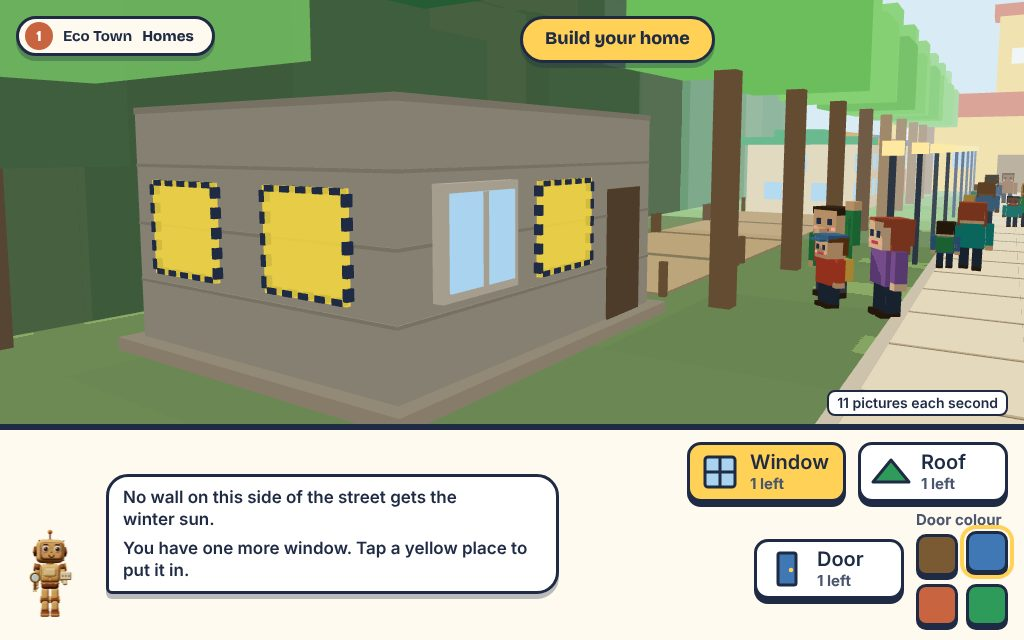
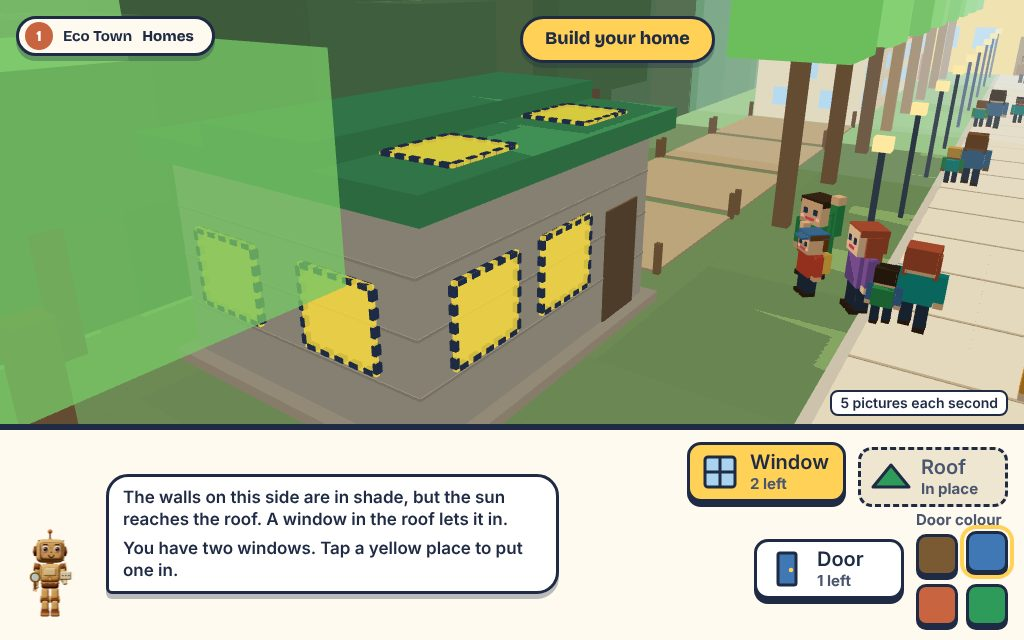
Trial level: recap by tapping the town, try another plan, a clear test view, and roof windows on the shady side
Claude-Session: https://claude.ai/code/session_01Ecde5Lvgabpd1qnHSP6bP6

diff --git a/docs/redesign/concepts/trial/trial.js b/docs/redesign/concepts/trial/trial.js
@@ -20,11 +20,14 @@ const T = { level: 'A warm home for winter',
   plans: [['Timber home', 'Wood from the town forest, cut in a sawmill that runs on sunshine.'], ['Brick home', 'Clay bricks, baked hard in a hot oven.'], ['Concrete home', 'Cement, made in a very hot kiln.']],
   checks: ['Staying warm', 'Clean air'], warm: { g: 'It stays warm all night.', f: 'It gets a little cold by morning.', p: 'It is cold inside all night.' }, tag: { g: 'Warm', f: 'A little cold', p: 'Cold' },
   air: ['Making the wood adds no pollution.', 'Baking the bricks adds some pollution.', 'Making the cement adds a lot of pollution.'],
-  build: 'Build your home', win2: 'You have two windows. Tap a yellow place to put one in.', win1: 'You have one more window. Tap a yellow place to put it in.', roof: 'Now tap the yellow place to lower the roof.', door: 'Choose a colour for the door. Then tap the yellow place.',
+  build: 'Build your home', win2: 'You have two windows. Tap a yellow place to put one in.', win1: 'You have one more window. Tap a yellow place to put it in.', roof: 'Tap the yellow place to lower the roof.', shadyWin: 'The walls on this side are in shade, but the sun reaches the roof. A window in the roof lets it in.', door: 'Choose a colour for the door. Then tap the yellow place.',
   sunIn: 'The winter sun shines in through this window and warms the home.', noSun: 'This wall is in shade, so no sun comes in here. You can tap the window to take it out again.', shade: 'No wall on this side of the street gets the winter sun.',
   ready: ['The home is ready, and your family is moving in.', 'One window catches the sun. The home is ready, and your family is moving in.', 'Both windows catch the sun. The home is ready, and your family is moving in.'],
   window: 'Window', roofT: 'Roof', doorT: 'Door', left: (n) => `${n} left`, placed: 'In place', colour: 'Door colour', family: 'Your family', plot: 'Your plot', yours: 'Your home', next: 'Next',
-  town: 'The street is built', after: ['The whole street is built your way. Making the wood added no pollution, and the air is clean.', 'The whole street is built your way. Baking the bricks added some pollution.', 'The whole street is built your way. Making the cement added a lot of pollution.'],
+  town: 'The street is built', homes: ['Timber homes', 'Brick homes', 'Concrete homes'], afterAir: ['Making the wood added no pollution, and the air is clean.', 'Baking the bricks added some pollution.', 'Making the cement added a lot of pollution.'],
+  afterWarm: { g: 'The homes stay warm at night.', f: 'The homes get a little cold by morning.', p: 'The homes are cold at night.' }, built: 'The whole street is built your way.',
+  tryOther: 'Try another plan', chooseOther: 'Choose a different plan to see it in the town.', first: 'Your first plan', what: 'What changed?', keepFirst: 'Go back to my first plan', keepThis: 'Keep this plan',
+  recapT: 'One more question', recapQ: 'Which side of the street does the winter sun warm? Tap that side.', thisSide: 'This side', sunSide: 'The sunny side', recapYes: 'Yes. The low winter sun reaches this side, so homes here stay warmer.', recapNo: 'The winter sun shines on this side. The wood keeps the other side in shade.',
   end: 'This is the end of the trial level. Thank you for playing.', replay: 'Play again' };
 
 // ---- colours and blocks ---------------------------------------------------------------------------------------------------
@@ -64,9 +67,9 @@ let cur = null, tws = [], run = 0;
 function newScene(half, o = {}) { const scene = new THREE.Scene(), hemi = new THREE.HemisphereLight('#fff6e8', '#cfc6b0', 1.5), sun = new THREE.DirectionalLight('#ffe9c4', 1.7);
   scene.add(hemi); sun.position.set(...(o.sun || [-16, 30, 18])); sun.castShadow = true; sun.shadow.mapSize.set(2048, 2048); Object.assign(sun.shadow.camera, { left: -half, right: half, top: half * 0.75, bottom: -half * 0.75, near: 1, far: 160 }); sun.shadow.bias = -0.002; sun.shadow.normalBias = 0.09; scene.add(sun);
   scene.background = new THREE.Color(SKY); return { scene, hemi, sun, g: group(scene), picks: [], plates: [], minAspect: 1.9 }; }
-function fit() { if (!cur) return; const f = cur.fov * Math.PI / 180; cam.fov = cam.aspect >= cur.minAspect ? cur.fov : 2 * Math.atan(Math.tan(f / 2) * cur.minAspect / cam.aspect) * 180 / Math.PI; cam.position.set(...cur.eye); cam.lookAt(...cur.at); cam.updateProjectionMatrix(); cam.updateMatrixWorld(); }
+function fit() { if (!cur) return; const f = cur.fov * Math.PI / 180; cam.fov = cam.aspect >= cur.minAspect ? cur.fov : 2 * Math.atan(Math.tan(f / 2) * cur.minAspect / cam.aspect) * 180 / Math.PI; cam.position.set(...cur.eye); cam.lookAt(cur.at[0], cur.at[1] - (view.clientHeight < 560 ? cur.drop || 0 : 0), cur.at[2]); cam.updateProjectionMatrix(); cam.updateMatrixWorld(); }
 // the camera glides from one view of the same place to another
-const glide = (to, sec = 1.6) => { const a = { eye: [...cur.eye], at: [...cur.at], fov: cur.fov }, mix = (p, q, k) => p.map((v, i) => v + (q[i] - v) * k); return tw(sec, (k) => { const e = ease(k); cur.eye = mix(a.eye, to.eye, e); cur.at = mix(a.at, to.at, e); cur.fov = a.fov + (to.fov - a.fov) * e; fit(); }); };
+const glide = (to, sec = 1.6) => { const a = { eye: [...cur.eye], at: [...cur.at], fov: cur.fov, drop: cur.drop || 0 }, mix = (p, q, k) => p.map((v, i) => v + (q[i] - v) * k); return tw(sec, (k) => { const e = ease(k); cur.eye = mix(a.eye, to.eye, e); cur.at = mix(a.at, to.at, e); cur.fov = a.fov + (to.fov - a.fov) * e; cur.drop = a.drop + ((to.drop || 0) - a.drop) * e; fit(); }); };
 function resize() { const w = view.clientWidth, h = view.clientHeight; if (!w || !h) return; renderer.setPixelRatio(Math.min(devicePixelRatio || 1, 1.5)); renderer.setSize(w, h, false); cam.aspect = w / h; fit(); }
 new ResizeObserver(resize).observe(view);
 function setScene(s) { run++; tws = []; cur = s; hover = null; view.classList.remove('can'); $('plates').innerHTML = ''; for (const p of s.plates) $('plates').append(p.el); fit(); return s; }
@@ -93,7 +96,7 @@ function loop(now) { requestAnimationFrame(loop); const dt = Math.min(0.1, (now 
 
 // ---- the place: one street, used for the whole level -----------------------------------------------------------------------
 // Side 0 is the sunny side (on the right of the picture) and side 1 the shady side (on the left, under the wood).
-const SIDEZ = [-12.7, 12.7], PX = [1, -10, -18, -26, -34], VIEW = { street: { eye: [19, 5, 4.6], at: [-10, 3, 0], fov: 33 }, plans: [{ eye: [3, 4.4, 5.6], at: [-17, 1.4, -12], fov: 40 }, { eye: [3, 4.4, -5.6], at: [-17, 1.4, 12], fov: 40 }], build: [{ eye: [14.5, 4.6, -0.5], at: [0.5, 3.1, -10.2], fov: 33 }, { eye: [14.5, 4.6, 0.5], at: [0.5, 3.1, 10.2], fov: 33 }] };
+const SIDEZ = [-12.7, 12.7], PX = [1, -10, -18, -26, -34], VIEW = { street: { eye: [19, 5, 4.6], at: [-10, 3, 0], fov: 33 }, plans: [{ eye: [-13, 6.6, 14.5], at: [-18.5, 2.3, -12.7], fov: 48, drop: 1.7 }, { eye: [-23, 6.6, -14.5], at: [-17.5, 2.3, 12.7], fov: 48, drop: 1.7 }], build: [{ eye: [14.5, 4.6, -0.5], at: [0.5, 3.1, -10.2], fov: 33 }, { eye: [15, 9.6, 0], at: [0.5, 3.8, 10.4], fov: 33 }] };
 const HW = 10, HD = 8, HH = 5.2, FRONT = [-3, 0.2], GABLE = [-1.9, 1.9], DOORX = 3.4;
 function town() { const s = newScene(46, { sun: [-10, 36, 48] }), g = s.g; Object.assign(s, VIEW.street, { eye: [...VIEW.street.eye], at: [...VIEW.street.at], minAspect: 1.9 });
   const sunDir = new THREE.Vector3(-10, 36, 48).normalize();
@@ -103,7 +106,9 @@ function town() { const s = newScene(46, { sun: [-10, 36, 48] }), g = s.g; Objec
   for (let k = 0; k < 13; k++) { const x = 16 - k * 7, hh = 11 + hash(k, 3) * 4; B(g, x, 23.5, 7.2, 6, 0, hh, ['#4f8a5a', '#58935f', '#4a8456'][k % 3]); B(g, x + 0.6, 22.6, 4.4, 4.4, hh, 2.2, '#58935f'); }
   for (const x of [8, -6, -20]) { B(g, x, 19.6, 0.6, 0.6, 0, 5, '#6f5a44'); B(g, x, 19.6, 4.4, 4.4, 4.2, 4.6, '#4f8a5a'); }
   // trees and lamps along the path lead the eye to the school
-  for (let k = 0; k < 9; k++) { const x = -6 - k * 8; for (const z of [-7.2, 7.2]) { tree(g, x, z, 1.55); lamp(g, x - 4, z > 0 ? 3.4 : -3.4); } }
+  const avenue = []; for (let k = 0; k < 9; k++) { const x = -6 - k * 8; for (const z of [-7.2, 7.2]) { const tg = group(g), lg = group(g), sd = z > 0 ? 1 : 0; tree(tg, x, z, 1.55); lamp(lg, x - 4, sd ? 3.4 : -3.4); avenue.push({ o: tg, x, sd, tree: true }, { o: lg, x: x - 4, sd }); } }
+  // for the test, the trees in front of the three sample homes and the lamps beside them step aside, so that the windows and the air can be seen
+  const clearView = (on) => { for (const a of avenue) a.o.visible = !(on && a.x > -42 && a.x < 8); };
   // the far end of the street is already built, and the school closes the view
   [-42, -50, -58, -66].forEach((x, k) => SIDEZ.forEach((z, sd) => { const h = house(g, { wx: x, k: k + sd * 2 }); h.position.set(x, 0, z); h.rotation.y = sd ? Math.PI : 0; }));
   { const x = -80, V = { raw: true, unlit: true }; B(g, x, 0, 6, 24, 0, 8, '#ffd76a', V); B(g, x, 0, 6.6, 25, 8, 1.3, '#d2553a', V); B(g, x, 0, 6.6, 13, 9.3, 1.2, '#d2553a', V); B(g, x, 0, 4, 4, 10.5, 8, '#ffd76a', V); B(g, x, 0, 5, 5, 18.5, 1.2, '#d2553a', V); B(g, x + 2.1, 0, 0.1, 1.6, 13.5, 1.6, '#fbfbf7', V);
@@ -139,17 +144,17 @@ function town() { const s = newScene(46, { sun: [-10, 36, 48] }), g = s.g; Objec
   const level = (i) => { const n = [3, 2, 1][i] + (s.side === 0 ? 1 : 0) + (s.thick ? 1 : 0); return n >= 4 ? 'g' : n === 3 ? (i === 0 ? 'g' : 'f') : n === 2 ? (i === 0 ? 'g' : 'f') : 'p'; };
   s.level = level; s.airLevel = (i) => 'gfp'[i];
   const pop = (o, from = 0.01, to = 1, sec = 0.36) => tw(sec, (k) => o.scale.setScalar(Math.max(0.01, from + (to - from) * (to > from ? back(k) : ease(k)))));
-  s.clearPlans = () => { for (const q of samples) { g.remove(q.h); for (const c of q.cloud) g.remove(c.m); q.plate.hide = true; q.plate.el.remove(); s.plates.splice(s.plates.indexOf(q.plate), 1); } samples = []; };
-  s.showPlans = async () => { s.clearPlans(); const z = SIDEZ[s.side], me = run; plots[s.side].forEach((p, k) => { p.mark.visible = false; });
+  s.clearPlans = () => { clearView(false); for (const q of samples) { g.remove(q.h); for (const c of q.cloud) g.remove(c.m); q.plate.hide = true; q.plate.el.remove(); s.plates.splice(s.plates.indexOf(q.plate), 1); } samples = []; };
+  s.showPlans = async () => { s.clearPlans(); clearView(true); const z = SIDEZ[s.side], me = run; plots[s.side].forEach((p, k) => { p.mark.visible = false; });
     for (let i = 0; i < 3; i++) { const x = PX[s.side ? i + 1 : 3 - i], glass = glassMat(), h = house(g, { wx: x, mat: MAT[i], glass, thick: s.thick, roofC: ROOF[[2, 0, 1][i]] }); h.position.set(x, 0.1, z); h.rotation.y = s.side ? Math.PI : 0; h.scale.setScalar(0.01);
       const cloud = []; for (let k = 0; k < [0, 4, 12][i]; k++) { const sz = (i === 1 ? 1.6 : 2.2) + hash(k, i) * 1.4, m = blk(g, 0, 0, sz, sz, 0, sz * 0.8, '#6d6763', { shadow: false, mat: soft(['#6f6a62', '#7d776d', '#5f5b55'][k % 3], 0.78) }); m.visible = false;
-        cloud.push({ m, sz, from: [x, 5.4, z], to: [x + (hash(k, 5) - 0.5) * (i === 1 ? 4 : 8), 7.2 + hash(k, 9) * (i === 1 ? 2.4 : 5) + k * 0.12, z + (hash(k, 3) - 0.5) * 5], at: k * (i === 1 ? 0.5 : 0.2) }); }
+        cloud.push({ m, sz, from: [x, 5.4, z], to: [x + (hash(k, 5) - 0.5) * (i === 1 ? 4 : 8), 6.9 + hash(k, 9) * (i === 1 ? 1.6 : 3.2) + k * 0.05, z + (hash(k, 3) - 0.5) * 5], at: k * (i === 1 ? 0.5 : 0.2) }); }
       samples.push({ h, glass, cloud, plate: plate(s, T.plans[i][0], [x, 6.4, z + (s.side ? -3.6 : 3.6)]) }); }
     glide(VIEW.plans[s.side], 1.6); for (const q of samples) { beep(360, 0.07); await pop(q.h); if (me !== run) return; } };
   let cloudT = -1; const setClouds = (tt) => { for (const q of samples) for (const p of q.cloud) { const k = ease(Math.max(0, Math.min(1, (tt - p.at) / 2))); p.m.visible = k > 0; p.m.position.set(p.from[0] + (p.to[0] - p.from[0]) * k, p.from[1] + (p.to[1] - p.from[1]) * k, p.from[2] + (p.to[2] - p.from[2]) * k); p.m.scale.set(p.sz * (0.3 + 0.7 * k), p.sz * 0.8 * (0.3 + 0.7 * k), p.sz * (0.3 + 0.7 * k)); } };
   // the test: the materials are made and the pollution rises; then the cold night comes and the windows show the warmth
   s.run = async () => { const me = run; cloudT = 0; await wait(4.2); if (me !== run) return false; await tw(2, (k) => s.setNight(ease(k))); if (me !== run) return false;
-    samples.forEach((q, i) => { const lv = level(i); q.glass.color.set(WARM[lv]); q.plate.el.textContent = `${T.plans[i][0]}: ${T.tag[lv]}`; q.plate.el.classList.toggle('on', lv === 'g'); }); beep(300, 0.3, 'sine'); await wait(1.6); return me === run; };
+    samples.forEach((q, i) => { const lv = level(i); q.glass.color.set(WARM[lv]); }); beep(300, 0.3, 'sine'); await wait(1.6); return me === run; };
 
   // ---- the family's home, built by the child ----
   let H = null;
@@ -157,62 +162,74 @@ function town() { const s = newScene(46, { sun: [-10, 36, 48] }), g = s.g; Objec
     await Promise.all([tw(1.2, (k) => s.setNight(1 - ease(k))), ...samples.map((q) => pop(q.h, 1, 0.01, 0.5)), tw(1, (k) => { for (const q of samples) for (const p of q.cloud) p.m.material.opacity = 0.78 * (1 - k); })]); if (me !== run) return; s.clearPlans(); cloudT = -1;
     footing.forEach((pair) => pair.forEach((f) => { f.visible = false; })); plots[sd][0].visible = false;
     const hg = group(g, PX[0], 0, z); hg.rotation.y = sd ? Math.PI : 0; const t = s.thick ? 0.9 : 0.3;
-    B(hg, 0, 0, HW + 0.8, HD + 0.8, 0, 0.3, '#d9d2c2', { wx: 0 }); const walls = group(hg, 0, 0.3, 0); B(walls, 0, 0, HW, HD, 0, HH, m.wall, R); for (const y of [1.3, 2.6, 3.9]) { B(walls, 0, HD / 2, HW, 0.04, y, 0.07, m.line, { ...R, shadow: false }); for (const sx of [-1, 1]) B(walls, sx * HW / 2, 0, 0.04, HD, y, 0.07, m.line, { ...R, shadow: false }); }
-    B(walls, 0, 0, HW + 0.04, HD + 0.04, HH - 0.12, 0.14, s.thick ? LINING : m.line, R); B(walls, 0, 0, HW - 2 * t, HD - 2 * t, HH - 0.1, 0.14, '#5a4630', { ...R, shadow: false });      // the top of the walls shows how thick they are
+    const wallMat = new THREE.MeshLambertMaterial({ color: m.wall }), lineMat = new THREE.MeshLambertMaterial({ color: m.line });
+    B(hg, 0, 0, HW + 0.8, HD + 0.8, 0, 0.3, '#d9d2c2', { wx: 0 }); const walls = group(hg, 0, 0.3, 0); B(walls, 0, 0, HW, HD, 0, HH, m.wall, { mat: wallMat }); for (const y of [1.3, 2.6, 3.9]) { B(walls, 0, HD / 2, HW, 0.04, y, 0.07, m.line, { mat: lineMat, shadow: false }); for (const sx of [-1, 1]) B(walls, sx * HW / 2, 0, 0.04, HD, y, 0.07, m.line, { mat: lineMat, shadow: false }); }
+    B(walls, 0, 0, HW + 0.04, HD + 0.04, HH - 0.12, 0.14, LINING, s.thick ? R : { mat: lineMat }); B(walls, 0, 0, HW - 2 * t, HD - 2 * t, HH - 0.1, 0.14, '#5a4630', { ...R, shadow: false });      // the top of the walls shows how thick they are
     B(walls, DOORX, HD / 2 + 0.02, 1.8, 0.08, 0, 3.3, '#5a4630', { wx: 0, shadow: false }); walls.scale.y = 0.01;
     // the yellow places: two on the front wall and two on each end wall
     const spots = [...FRONT.map((x) => ({ wall: 'front', p: [x, 1.9, HD / 2 + 0.16], ry: 0 })), ...GABLE.map((zz) => ({ wall: 'end', p: [HW / 2 + 0.16, 1.9, zz], ry: Math.PI / 2 })), ...GABLE.map((zz) => ({ wall: 'end', p: [-HW / 2 - 0.16, 1.9, zz], ry: -Math.PI / 2 }))];
+    // on the shady side the walls get no sun, but the sun comes over the wood onto the roof: two more places, for windows in the roof
+    if (sd) for (const x of [-2.6, 2.6]) spots.push({ wall: 'roof', p: [x, 0.3 + HH + 0.62, 3.9], ry: 0, flat: true });
     const lit = glassMat(), beamMat = soft('#ffe27a', 0.34);
-    for (const q of spots) { q.frame = group(hg, ...q.p); q.frame.rotation.y = q.ry; frame(q.frame, 0, 0, 0, 2.3, 2.1, true); q.frame.visible = false;
-      q.part = group(hg, ...q.p); q.part.rotation.y = q.ry; blk(q.part, 0, 0, 2.3, 0.24, 0, 2.1, '#fbfbf7', { mat: M('#fbfbf7', 0, { raw: true }) }); q.glass = glassMat(); blk(q.part, 0, 0.06, 1.95, 0.22, 0.17, 1.76, GLASS, { shadow: false, mat: q.glass }); blk(q.part, 0, 0.1, 0.12, 0.22, 0.17, 1.76, '#fbfbf7', { shadow: false, mat: M('#fbfbf7', 0, { raw: true }) }); q.part.visible = false;
-      q.sunny = sd === 0 && q.wall === 'front';
+    for (const q of spots) { q.frame = group(hg, ...q.p); q.frame.rotation.y = q.ry; if (q.flat) q.frame.rotation.x = -Math.PI / 2; frame(q.frame, 0, 0, 0, 2.3, 2.1, true); q.frame.visible = false;
+      q.part = group(hg, ...q.p); q.part.rotation.y = q.ry; if (q.flat) q.part.rotation.x = -Math.PI / 2; blk(q.part, 0, 0, 2.3, 0.24, 0, 2.1, '#fbfbf7', { mat: M('#fbfbf7', 0, { raw: true }) }); q.glass = glassMat(); blk(q.part, 0, 0.06, 1.95, 0.22, 0.17, 1.76, GLASS, { shadow: false, mat: q.glass }); blk(q.part, 0, 0.1, 0.12, 0.22, 0.17, 1.76, '#fbfbf7', { shadow: false, mat: M('#fbfbf7', 0, { raw: true }) }); q.part.visible = false;
+      q.sunny = q.wall === 'roof' || (sd === 0 && q.wall === 'front');
       // a shaft of sunlight that comes down into a window on the sunny wall
       q.beam = new THREE.Mesh(new THREE.BoxGeometry(1.9, 1.7, 9), beamMat); q.beam.visible = false; g.add(q.beam); }
     const roof = group(hg, 0, 9.4, 0); blk(roof, 0, 0, HW + 0.9, HD + 1.2, 0, 0.6, ROOF[2], { mat: M(ROOF[2], 0) }); blk(roof, 0, 0, HW + 0.9, HD * 0.45, 0.6, 0.55, ROOF[2], { mat: M(ROOF[2], 0) }); const ropes = [-4.2, 4.2].map((x) => blk(roof, x, 0, 0.08, 0.08, 1.1, 16, '#2b3a55', { shadow: false })); roof.visible = false;
     const roofSpot = group(hg, 0, 0.3 + HH, 0); frame(roofSpot, 0, 0.1, HD / 2 + 0.2, HW, 0.9, true); for (const sx of [-1, 1]) { const f = group(roofSpot, sx * (HW / 2 + 0.2), 0.1, 0); f.rotation.y = sx * Math.PI / 2; frame(f, 0, 0, 0, HD, 0.9, true); } roofSpot.visible = false;
     const doorSpot = group(hg, DOORX, 0.3, HD / 2 + 0.2); frame(doorSpot, 0, 0, 0, 1.8, 3.3, true); doorSpot.visible = false;
     const doorMat = new THREE.MeshLambertMaterial({ color: tone(DOOR[S.doorC]) }), door = group(hg, DOORX, 0.3, HD / 2 + 0.14); blk(door, 0, 0, 1.8, 0.16, 0, 3.3, '#fff', { mat: doorMat }); blk(door, -0.6, 0.1, 0.2, 0.1, 1.5, 0.2, '#ffd257', { shadow: false, mat: M('#ffd257', 0, { raw: true, unlit: true }) }); door.visible = false;
-    H = { hg, spots, roof, door, lit, sd };
+    H = { hg, spots, roof, door, lit, sd, wallMat, lineMat };
     tw(1.3, (k) => { const e = ease(k); family.position.set(8 + (-7.5 - 8) * e, Math.abs(Math.sin(k * 14)) * 0.12 * (k < 1), 0.6 + ((sd ? 4.6 : -4.6) - 0.6) * e); family.rotation.y = (sd ? -0.5 : 0.4) * e; });
     await Promise.all([glide(VIEW.build[sd], 1.8), tw(1.4, (k) => { walls.scale.y = Math.max(0.01, ease(k)); })]); if (me !== run) return; roof.visible = true; beep(500, 0.1);
-    let tool = 'win', busy = false; const used = new Set(); let roofOn = false, doorOn = false, note = ''; s.done = false;
+    for (const q of avenue) if (q.tree && q.sd === sd && sd && q.x > -10) q.o.visible = false; const order = sd ? ['roof', 'win', 'door'] : ['win', 'roof', 'door']; let tool = order[0], busy = false; const used = new Set(); let roofOn = false, doorOn = false, note = ''; s.done = false;
     const left = () => ({ win: 2 - used.size, roof: roofOn ? 0 : 1, door: doorOn ? 0 : 1 });
     const show = () => { const n = left(); spots.forEach((q, i) => { q.frame.visible = !s.done && tool === 'win' && n.win > 0 && !used.has(i); }); roofSpot.visible = !s.done && tool === 'roof' && !roofOn; doorSpot.visible = !s.done && tool === 'door' && !doorOn; s.onChange(tool, n, s.done, note, [...used].filter((i) => spots[i].sunny).length); };
     const finish = async () => { s.done = true; show(); chime(); await wait(0.4); if (me !== run) return; for (const i of used) spots[i].glass.color.set(spots[i].sunny ? LIT : WARM[level(pick)]); const a = family.position.clone(), to = hg.localToWorld(new THREE.Vector3(DOORX - 1.2, 0, HD / 2 + 2.4));
       await tw(2, (k) => { const e = ease(k); family.position.set(a.x + (to.x - a.x) * e, Math.abs(Math.sin(k * 16)) * 0.14 * (k < 1), a.z + (to.z - a.z) * e); }); if (me === run) s.onDone(); };
-    const next = () => { const n = left(); if (!n[tool]) tool = ['win', 'roof', 'door'].find((k) => n[k]) || tool; if (!n.win && !n.roof && !n.door) finish(); else show(); };
-    s.setTool = (k) => { if (s.done || !left()[k]) return; tool = k; note = ''; show(); };
+    const next = () => { const n = left(); if (!n[tool]) tool = order.find((k) => n[k]) || tool; if (!n.win && !n.roof && !n.door) finish(); else show(); };
+    s.setTool = (k) => { if (s.done || !left()[k] || (sd && k === 'win' && !roofOn)) return; tool = k; note = ''; show(); };
     s.setDoor = (i) => { S.doorC = i; doorMat.color.set(tone(DOOR[i])); if (!s.done && !doorOn && !left().win && roofOn) tool = 'door'; show(); };
-    spots.forEach((q, i) => { hitBox(s, q.frame.parent, q.p[0], q.p[1] - 0.1, q.p[2], q.ry ? 1 : 2.6, 2.4, q.ry ? 2.6 : 1, () => !s.done && !busy && (used.has(i) || (tool === 'win' && left().win > 0)), () => {
+    spots.forEach((q, i) => { hitBox(s, hg, ...(q.flat ? [q.p[0], q.p[1] - 0.2, q.p[2] - 1.05, 2.6, 0.9, 2.3] : [q.p[0], q.p[1] - 0.1, q.p[2], q.ry ? 1 : 2.6, 2.4, q.ry ? 2.6 : 1]), () => !s.done && !busy && (used.has(i) || (tool === 'win' && left().win > 0)), () => {
       if (used.has(i)) { used.delete(i); q.part.visible = false; q.beam.visible = false; tool = 'win'; note = ''; beep(300, 0.08); show(); return; }
       used.add(i); q.part.visible = true; pop(q.part); beep(q.sunny ? 880 : 520, 0.14);
-      if (q.sunny) { const w = q.part.getWorldPosition(new THREE.Vector3()).add(new THREE.Vector3(0, 1.05, 0)); q.beam.position.copy(w).addScaledVector(sunDir, 4.5); q.beam.lookAt(w.clone().addScaledVector(sunDir, 20)); q.beam.visible = true; q.glass.color.set('#fff3b0'); }
-      note = q.sunny ? T.sunIn : sd === 1 ? T.shade : T.noSun; next(); }).frame = q.frame; });
-    hitBox(s, hg, 0, 0.3 + HH - 0.4, 0, HW + 1.4, 5.4, HD + 1.4, () => !s.done && !busy && !roofOn && tool === 'roof', async () => { busy = true; roofOn = true; roofSpot.visible = false; note = ''; await tw(1.1, (k) => { roof.position.y = 9.4 - (9.4 - 0.3 - HH) * ease(k); }); if (me !== run) return; for (const r of ropes) r.visible = false; beep(220, 0.2, 'sine', 0.12); busy = false; next(); }).frame = roofSpot;
+      if (q.sunny) { const w = q.part.getWorldPosition(new THREE.Vector3()).add(new THREE.Vector3(0, q.flat ? 0.3 : 1.05, 0)); q.beam.position.copy(w).addScaledVector(sunDir, 4.5); q.beam.lookAt(w.clone().addScaledVector(sunDir, 20)); q.beam.visible = true; q.glass.color.set('#fff3b0'); }
+      note = q.sunny ? T.sunIn : T.noSun; next(); }).frame = q.frame; });
+    hitBox(s, hg, 0, 0.3 + HH - 0.4, 0, HW + 1.4, 5.4, HD + 1.4, () => !s.done && !busy && !roofOn && tool === 'roof', async () => { busy = true; roofOn = true; roofSpot.visible = false; note = sd ? T.shadyWin : ''; await tw(1.1, (k) => { roof.position.y = 9.4 - (9.4 - 0.3 - HH) * ease(k); }); if (me !== run) return; for (const r of ropes) r.visible = false; beep(220, 0.2, 'sine', 0.12); busy = false; next(); }).frame = roofSpot;
     hitBox(s, hg, DOORX, 0.3, HD / 2 + 0.3, 2.2, 3.4, 1, () => !s.done && !busy && !doorOn && tool === 'door', () => { doorOn = true; door.visible = true; pop(door); beep(660, 0.12); note = ''; next(); }).frame = doorSpot;
     s.pulse = [...spots.map((q) => q.frame), roofSpot, doorSpot];
     // where the yellow places are in the world, for the script that plays the level through
-    s.spot = (name, i = 0) => { const v = name === 'win' ? new THREE.Vector3(...spots[i].p) : name === 'roof' ? new THREE.Vector3(0, 0.3 + HH + 0.5, HD / 2 + 0.3) : new THREE.Vector3(DOORX, 1.9, HD / 2 + 0.3); return hg.localToWorld(v).toArray(); };
+    s.spot = (name, i = 0) => { const v = name === 'win' ? new THREE.Vector3(spots[i].p[0], spots[i].p[1], spots[i].p[2] - (spots[i].flat ? 1 : 0)) : name === 'roof' ? new THREE.Vector3(0, 0.3 + HH + 0.5, HD / 2 + 0.3) : new THREE.Vector3(DOORX, 1.9, HD / 2 + 0.3); return hg.localToWorld(v).toArray(); };
     show(); };
   // ---- the town changes: the whole street is built in the chosen way ----
-  s.fill = async (pick) => { const me = run; for (const q of H.spots) q.beam.visible = false; await glide(VIEW.street, 1.8); if (me !== run) return; plate(s, T.yours, [PX[0] - 3, 6.2, SIDEZ[H.sd] + (H.sd ? -4 : 4)], 'on');
-    const lv = level(pick); for (let k = 1; k < 5; k++) for (const sd of [H.sd, 1 - H.sd]) { plots[sd][k].visible = false; const x = PX[k], glass = glassMat(); glass.color.set(GLASS); const h = house(g, { wx: x, mat: MAT[pick], glass, thick: s.thick, roofC: ROOF[(k + sd) % 4] }); h.position.set(x, 0.1, SIDEZ[sd]); h.rotation.y = sd ? Math.PI : 0; h.scale.setScalar(0.01); beep(330 + k * 40, 0.06); await pop(h, 0.01, 1, 0.26); if (me !== run) return; }
-    plots[1 - H.sd][0].visible = false; { const h = house(g, { wx: 0, mat: MAT[pick], thick: s.thick, w: HW, d: HD, h: HH, roofC: ROOF[1] }); h.position.set(PX[0], 0.1, SIDEZ[1 - H.sd]); h.rotation.y = H.sd ? 0 : Math.PI; h.scale.setScalar(0.01); await pop(h); }
-    // the pollution from making the materials for a whole street hangs over it
-    for (let k = 0; k < [0, 6, 16][pick]; k++) { const sz = 2.4 + hash(k, 7) * 2.4; blk(g, -8 - hash(k, 1) * 34, (hash(k, 2) - 0.5) * 30, sz * 1.5, sz, 8.5 + hash(k, 3) * 5, sz * 0.7, '#6d6763', { shadow: false, mat: soft(['#6f6a62', '#7d776d', '#5f5b55'][k % 3], 0.7) }); } if (me === run) chime(); };
+  let built = [], haze = [];
+  const lay = async (pick, quick) => { const me = run; for (const h of built) g.remove(h); for (const m of haze) g.remove(m); built = []; haze = []; H.wallMat.color.set(MAT[pick].wall); H.lineMat.color.set(MAT[pick].line);
+    const put = async (h) => { built.push(h); if (quick) return true; h.scale.setScalar(0.01); beep(330 + built.length * 30, 0.06); await pop(h, 0.01, 1, 0.26); return me === run; };
+    for (let k = 1; k < 5; k++) for (const sd of [H.sd, 1 - H.sd]) { plots[sd][k].visible = false; const x = PX[k], h = house(g, { wx: x, mat: MAT[pick], thick: s.thick, roofC: ROOF[(k + sd) % 4] }); h.position.set(x, 0.1, SIDEZ[sd]); h.rotation.y = sd ? Math.PI : 0; if (!await put(h)) return; }
+    plots[1 - H.sd][0].visible = false; { const h = house(g, { wx: 0, mat: MAT[pick], thick: s.thick, w: HW, d: HD, h: HH, roofC: ROOF[1] }); h.position.set(PX[0], 0.1, SIDEZ[1 - H.sd]); h.rotation.y = H.sd ? 0 : Math.PI; if (!await put(h)) return; }
+    // the pollution from making the materials for a whole street hangs in the open sky above the path, where the trees do not hide it
+    for (let k = 0; k < [0, 6, 16][pick]; k++) { const sz = 2.4 + hash(k, 7) * 2.4; haze.push(blk(g, -16 - hash(k, 1) * 40, (hash(k, 2) - 0.5) * 7, sz, sz * 1.5, 6.2 + hash(k, 3) * 4.5, sz * 0.7, '#6d6763', { shadow: false, mat: soft(['#6f6a62', '#7d776d', '#5f5b55'][k % 3], 0.72) })); } };
+  s.fill = async (pick) => { const me = run; clearView(false); for (const q of H.spots) q.beam.visible = false; await glide(VIEW.street, 1.8); if (me !== run) return; plate(s, T.yours, [PX[0] - 3, 6.2, SIDEZ[H.sd] + (H.sd ? -4 : 4)], 'on'); await lay(pick, false); if (me === run) chime(); };
+  s.swap = (pick) => lay(pick, true);
+  // ---- the recap: the child taps one side of the street ----
+  s.recap = (on) => { const marks = SIDEZ.map((z, sd) => { const m = place(g, -12, sd ? 5 : -5, 36, 2.4, 0.12), pl = plate(s, T.thisSide, [-9, 8.4, z + (sd ? -4 : 4)], 'tap'); hitBox(s, g, -12, 0, z + (sd ? -4 : 4), 44, 10, 9, () => s.answer === undefined, () => go(sd)); pl.el.onclick = () => { if (s.answer === undefined) go(sd); }; return { m, pl }; });
+    const go = (sd) => { s.answer = sd; beep(sd === 0 ? 880 : 300, 0.15); marks.forEach((q, i) => { q.m.visible = i === 0; q.pl.hide = i !== 0; q.pl.el.classList.remove('tap'); q.pl.el.classList.add('on'); q.pl.el.textContent = T.sunSide; });
+      for (let k = 0; k < 4; k++) { const b = new THREE.Mesh(new THREE.BoxGeometry(5, 0.5, 18), soft('#ffe27a', 0.32)), base = new THREE.Vector3(-4 - k * 8, 3, SIDEZ[0] + 4); b.position.copy(base).addScaledVector(sunDir, 9); b.lookAt(base.clone().addScaledVector(sunDir, 30)); g.add(b); } on(sd === 0); };
+    s.pulseM = marks.map((q) => q.m); s.spot = (name, i) => [-9, 3, SIDEZ[i] + (i ? -4 : 4)]; };
   s.tick = (t, dt) => { for (const p of walkers) { p.w.position.x += p.dir * p.v * dt; if (p.w.position.x < -74) p.w.position.x = 4; if (p.w.position.x > 4) p.w.position.x = -74; p.w.position.y = Math.abs(Math.sin(t * 6 + p.ph)) * 0.12; }
     if (cloudT >= 0) { cloudT += dt; setClouds(cloudT); } if (nightK > 0.05) for (const f of snow) { f.y -= f.v * dt; if (f.y < 0) f.y = 24; f.m.position.y = f.y; }
-    const k = 1 + 0.05 * Math.sin(t * 4.5); for (const row of plots) for (const p of row) p.mark.scale.set(k, 1, k); if (s.pulse) { for (const p of s.pulse) p.scale.set(k, k, 1); if (hover && hover.frame) hover.frame.scale.set(1.12, 1.12, 1); } };
+    const k = 1 + 0.05 * Math.sin(t * 4.5); for (const row of plots) for (const p of row) p.mark.scale.set(k, 1, k); if (s.pulseM) for (const m of s.pulseM) m.scale.set(1, 1, k); if (s.pulse) { for (const p of s.pulse) p.scale.set(k, k, 1); if (hover && hover.frame) hover.frame.scale.set(1.12, 1.12, 1); } };
   return s; }
 
 // ---- the steps of the level ---------------------------------------------------------------------------------------------------
-const S = { words: [], pick: null, doorC: 1 };
+const S = { words: [], pick: null, first: null, doorC: 1 };
 const btn = (label, cls, fn) => { const b = document.createElement('button'); b.className = `btn ${cls}`; b.textContent = label; b.onclick = fn; return b; };
 function ui({ step = '', say = [], tray = [], wide = false, over = '' }) { $('step').textContent = step; $('say').innerHTML = [].concat(say).filter(Boolean).map((p) => `<p>${esc(p)}</p>`).join(''); const t = $('tray'); t.className = `tray${wide ? ' wide' : ''}`; t.replaceChildren(...tray); if (over !== null) $('over').innerHTML = over; }
 const MARK = { g: '✓', f: '–', p: '✕' };
-const resultCards = () => T.plans.map(([n], i) => { const w = cur.level(i), a = cur.airLevel(i); return `<div class="card"><h3>${esc(n)}</h3><div class="res"><i class="mark ${w}">${MARK[w]}</i><span><b>${esc(T.checks[0])}.</b> ${esc(T.warm[w])}</span></div><div class="res"><i class="mark ${a}">${MARK[a]}</i><span><b>${esc(T.checks[1])}.</b> ${esc(T.air[i])}</span></div><button class="btn sun" data-plan="${i}">${esc(T.use)}</button></div>`; }).join('');
+const resultCards = (mine = -1) => T.plans.map(([n], i) => { const w = cur.level(i), a = cur.airLevel(i); return `<div class="card"><h3>${esc(n)}</h3><div class="res"><i class="mark ${w}">${MARK[w]}</i><span><b>${esc(T.checks[0])}.</b> ${esc(T.warm[w])}</span></div><div class="res"><i class="mark ${a}">${MARK[a]}</i><span><b>${esc(T.checks[1])}.</b> ${esc(T.air[i])}</span></div>${i === mine ? `<p><b>${esc(T.first)}</b></p>` : `<button class="btn sun" data-plan="${i}">${esc(T.use)}</button>`}</div>`; }).join('');
 $('over').addEventListener('click', (e) => { const b = e.target.closest('[data-plan]'); if (b) choose(+b.dataset.plan); });
-function job() { Object.assign(S, { words: [], pick: null }); setScene(town()); ui({ step: T.level, say: T.job, tray: [btn(T.start, 'sun', ask)] }); }
+function job() { Object.assign(S, { words: [], pick: null, first: null }); $('first').hidden = true; setScene(town()); ui({ step: T.level, say: T.job, tray: [btn(T.start, 'sun', ask)] }); }
 function ask() { if (cur.side !== null && S.pick !== null) return job(); if (cur.side !== null) glide(VIEW.street, 1); cur.clearPlans(); cur.setNight(0); const gaps = T.sentence.filter((p) => Array.isArray(p)); let now = Math.max(0, gaps.findIndex((_, i) => S.words[i] === undefined));
   const draw = () => { cur.words(S.words[0] ?? null, S.words[1] === undefined ? null : S.words[1] === 0); const sen = document.createElement('div'); sen.className = 'sentence'; let gi = 0;
     for (const p of T.sentence) { if (typeof p === 'string') sen.append(p === '.' ? p : `${p} `); else { const i = gi++, sp = document.createElement('span'); sp.className = `gap${S.words[i] !== undefined ? ' full' : ''}${i === now ? ' now' : ''}`; sp.textContent = S.words[i] !== undefined ? p[S.words[i]] : '…'; sp.onclick = () => { now = i; draw(); }; sen.append(sp, ' '); } }
@@ -221,15 +238,24 @@ function ask() { if (cur.side !== null && S.pick !== null) return job(); if (cur
   draw(); }
 async function plans() { const s = cur, b = btn(T.test, 'sun big', async () => { b.disabled = true; ui({ step: T.test, say: T.watch, tray: [], over: '' }); if (await s.run()) ui({ step: T.level, say: T.choose, tray: [btn(T.again, '', () => { S.words = []; ask(); })], over: resultCards() }); });
   ui({ step: T.level, say: T.plansSay(T.sentence[1][S.words[0]], T.sentence[3][S.words[1]]), tray: [b] }); b.disabled = true; await s.showPlans(); b.disabled = false; }
-async function choose(i) { S.pick = i; const s = cur, I = { win: '<svg viewBox="0 0 44 40"><rect x="7" y="5" width="30" height="30" rx="3" fill="#a9d3ee" stroke="#1f2a44" stroke-width="3"/><path d="M22 5v30M7 20h30" stroke="#1f2a44" stroke-width="3"/></svg>', roof: '<svg viewBox="0 0 44 40"><path d="M4 30L22 8l18 22z" fill="#2e9b5a" stroke="#1f2a44" stroke-width="3" stroke-linejoin="round"/></svg>', door: '<svg viewBox="0 0 44 40"><rect x="13" y="4" width="18" height="32" rx="2" fill="#3f78b5" stroke="#1f2a44" stroke-width="3"/><circle cx="26" cy="21" r="2.2" fill="#ffd257"/></svg>' };
+async function choose(i) { if (S.first !== null) return second(i); S.pick = i; const s = cur, I = { win: '<svg viewBox="0 0 44 40"><rect x="7" y="5" width="30" height="30" rx="3" fill="#a9d3ee" stroke="#1f2a44" stroke-width="3"/><path d="M22 5v30M7 20h30" stroke="#1f2a44" stroke-width="3"/></svg>', roof: '<svg viewBox="0 0 44 40"><path d="M4 30L22 8l18 22z" fill="#2e9b5a" stroke="#1f2a44" stroke-width="3" stroke-linejoin="round"/></svg>', door: '<svg viewBox="0 0 44 40"><rect x="13" y="4" width="18" height="32" rx="2" fill="#3f78b5" stroke="#1f2a44" stroke-width="3"/><circle cx="26" cy="21" r="2.2" fill="#ffd257"/></svg>' };
   const names = { win: T.window, roof: T.roofT, door: T.doorT }, toks = {}, tray = [];
   for (const k of ['win', 'roof', 'door']) { const b = document.createElement('button'); b.className = 'tok'; b.onclick = () => s.setTool(k); toks[k] = b; tray.push(b); }
   const sw = document.createElement('div'); sw.innerHTML = `<div class="sws-h">${esc(T.colour)}</div><div class="sws">${DOOR.map((c, k) => `<button class="sw" data-c="${k}" style="background:${c}" aria-label="${esc(T.colour)} ${k + 1}"></button>`).join('')}</div>`; sw.onclick = (e) => { const b = e.target.closest('[data-c]'); if (b) s.setDoor(+b.dataset.c); }; tray.push(sw);
   s.onChange = (tool, n, done, note, sunny) => { for (const k in toks) { toks[k].className = `tok${!n[k] ? ' used' : tool === k && !done ? ' on' : ''}`; toks[k].innerHTML = `${I[k]}<span>${esc(names[k])}<small>${esc(n[k] ? T.left(n[k]) : T.placed)}</small></span>`; }
     for (const b of sw.querySelectorAll('.sw')) b.classList.toggle('on', +b.dataset.c === S.doorC);
     $('say').innerHTML = [done ? '' : note, done ? T.ready[sunny] : tool === 'win' ? (n.win === 2 ? T.win2 : T.win1) : tool === 'roof' ? T.roof : T.door].filter(Boolean).map((p) => `<p>${esc(p)}</p>`).join(''); };
-  s.onDone = () => { $('tray').replaceChildren(btn(T.next, 'sun', async () => { ui({ step: T.town, say: '', tray: [], over: '' }); await s.fill(S.pick); if (cur === s) ui({ step: T.town, say: T.after[S.pick], tray: [btn(T.next, 'sun', () => ui({ step: T.level, say: T.end, tray: [btn(T.replay, 'sun', job)], over: '' }))], over: '' }); })); };
+  s.onDone = () => { $('tray').replaceChildren(btn(T.next, 'sun', townStep)); };
   ui({ step: T.build, say: '', tray: [], over: '' }); await s.startBuild(i); if (cur === s) $('tray').replaceChildren(...tray); }
+
+const after = (i) => `${T.afterAir[i]} ${T.afterWarm[cur.level(i)]}`;
+async function townStep() { const s = cur; ui({ step: T.town, say: '', tray: [], over: '' }); await s.fill(S.pick); if (cur === s) settled(true); }
+function settled(canTry) { $('first').hidden = true; ui({ step: T.homes[S.pick], say: [T.built, after(S.pick)], tray: [...(canTry ? [btn(T.tryOther, '', () => { S.first = S.pick; ui({ step: T.town, say: T.chooseOther, tray: [], over: resultCards(S.first) }); })] : []), btn(T.next, 'sun', recap)], over: '' }); }
+// the second plan is shown in the town at once, with no second play break; a small sign keeps the first result in view
+function second(i) { const s = cur, first = S.first, w = s.level(first), a = s.airLevel(first); S.first = null; S.pick = i; s.swap(i);
+  $('first').innerHTML = `<b>${esc(T.first)}: ${esc(T.homes[first])}</b><span><i class="mark ${w}">${MARK[w]}</i>${esc(T.checks[0])}</span><span><i class="mark ${a}">${MARK[a]}</i>${esc(T.checks[1])}</span>`; $('first').hidden = false;
+  ui({ step: T.homes[i], say: [T.what, after(i)], tray: [btn(T.keepFirst, '', () => { S.pick = first; s.swap(first); settled(false); }), btn(T.keepThis, 'sun', () => settled(false))], over: '' }); }
+function recap() { const s = cur; $('first').hidden = true; ui({ step: T.recapT, say: T.recapQ, tray: [], over: '' }); s.recap((ok) => ui({ step: T.recapT, say: ok ? T.recapYes : T.recapNo, tray: [btn(T.next, 'sun', () => ui({ step: T.level, say: T.end, tray: [btn(T.replay, 'sun', job)], over: '' }))], over: null })); }
 
 // Florence breathes: frames 0 to 3 of her sheet, three each second
 { let n = 0; setInterval(() => { n = (n + 1) % 4; $('flo').style.setProperty('--col', n); }, 333); }

diff --git a/docs/redesign/concepts/trial/index.html b/docs/redesign/concepts/trial/index.html
@@ -67,6 +67,8 @@
   .sws { display: grid; grid-template-columns: repeat(2, 42px); gap: 8px; } .sws-h { font: 700 15px/1.1 var(--ui-body); color: var(--ui-ink-soft); margin-bottom: 6px; }
   .sw { width: 42px; height: 42px; border: 3px solid var(--ui-ink); border-radius: 10px; box-shadow: 0 4px 0 var(--ui-ink); cursor: pointer; padding: 0; }
   .sw.on { outline: 4px solid var(--ui-sun); outline-offset: 2px; transform: translateY(-3px); }
+  .first { position: absolute; left: 16px; top: 76px; z-index: 3; display: flex; flex-direction: column; gap: 5px; padding: 9px 13px 10px; background: var(--ui-paper); border: 3px solid var(--ui-ink); border-radius: 14px; box-shadow: var(--ui-shadow-rest); font: 700 16px/1.2 var(--ui-body); }
+  .first[hidden] { display: none; } .first b { font: 800 17px/1.2 var(--ui-display); } .first span { display: flex; align-items: center; gap: 8px; } .first .mark { width: 24px; height: 24px; font-size: 15px; }
   .fps { position: absolute; right: 16px; bottom: 8px; z-index: 4; font: 600 14px/1 var(--ui-body); background: #fff; border: 2px solid var(--ui-ink); border-radius: 8px; padding: 4px 8px; }
   @media (max-width: 900px), (max-height: 640px) {
     .band { grid-template-columns: 84px minmax(0, 1fr); min-height: 150px; } .flo { width: 84px; height: 110px; }
@@ -81,6 +83,7 @@
     <canvas id="c"></canvas>
     <div class="plates" id="plates"></div>
     <div class="top"><div class="chip"><b>1</b>Eco Town <strong>Homes</strong></div><div class="step" id="step"></div><div class="trial">This is a trial level. Its words are placeholders.</div></div>
+    <div class="first" id="first" hidden></div>
     <div class="over" id="over"></div>
     <div class="fps" id="fps" hidden></div>
   </div>
